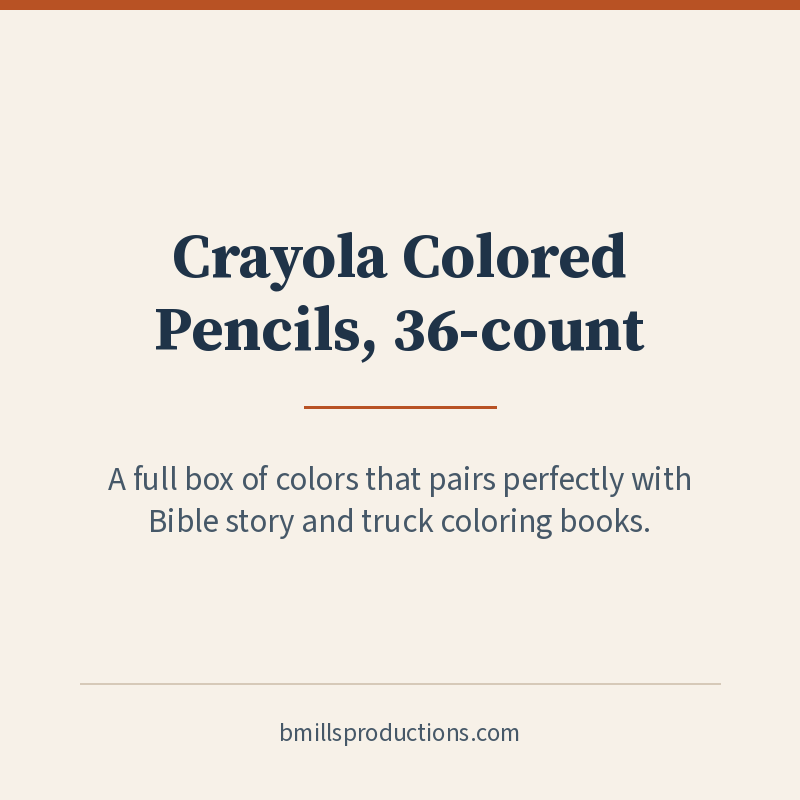
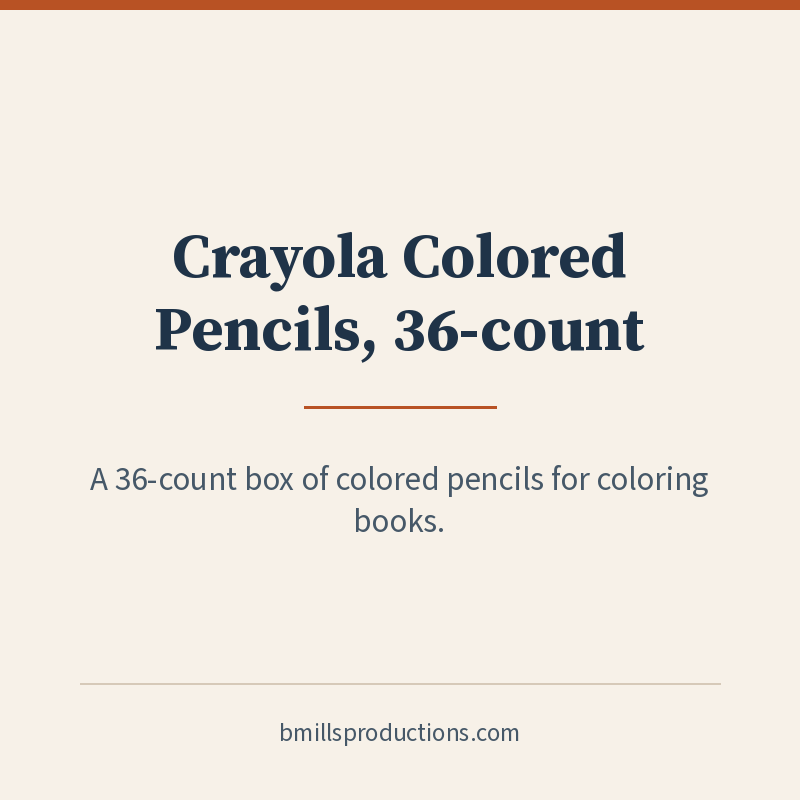
Rename Favorite Finds to Helpful Finds and add paid-link labels.

Changed region(s): [[0.125, 0.5625, 0.9062, 0.6875]]

diff --git a/index.html b/index.html
@@ -23,7 +23,7 @@
         <a href="#printables">Printables</a>
         <a href="#digital-art">Digital Art &amp; Papers</a>
         <a href="#business-finance">Business &amp; Finance</a>
-        <a href="/links/">Favorite Finds</a>
+        <a href="/links/">Helpful Finds</a>
         <a href="#about">About</a>
         <!-- PHYSICAL_PRODUCTS_CHIP
              Uncomment this chip when there are physical products to show:
@@ -51,7 +51,7 @@
             <a class="chip" href="#printables">Printables</a>
             <a class="chip" href="#digital-art">Digital Art &amp; Papers</a>
             <a class="chip" href="#business-finance">Business &amp; Finance</a>
-            <a class="chip" href="/links/">Amazon Favorite Finds</a>
+            <a class="chip" href="/links/">Helpful Amazon Finds</a>
             <!-- PHYSICAL_PRODUCTS_CHIP
                  Hidden for now — there are no physical products yet.
                  Uncomment to show this category chip:
@@ -529,7 +529,7 @@
         <div class="section-head">
           <div>
             <p class="eyebrow">From Amazon</p>
-            <h2>Favorite Finds</h2>
+            <h2>Helpful Finds</h2>
             <p class="lede">A short list of useful kitchen, car, office, and craft picks to go with the planners and coloring books.</p>
           </div>
         </div>
@@ -544,7 +544,10 @@
               <p class="card-meta">Amazon · Office &amp; Planning</p>
               <h3>SKYDUE Budget Binder with Zipper Cash Envelopes</h3>
               <p class="card-blurb">A small binder with zipper cash envelopes to keep spending categories right next to your printed budget pages.</p>
-              <a class="btn btn-primary btn-card" href="https://www.amazon.com/dp/B0967RNWX3?tag=billmills-20" target="_blank" rel="sponsored noopener">View on Amazon</a>
+              <div class="buy-row">
+                <a class="btn btn-primary btn-card" href="https://www.amazon.com/dp/B0967RNWX3?tag=billmills-20" target="_blank" rel="sponsored noopener">View on Amazon</a>
+                <span class="paid-link">Paid link: I earn a commission</span>
+              </div>
             </div>
           </article>
           <article class="card">
@@ -555,29 +558,38 @@
               <p class="card-meta">Amazon · Office &amp; Planning</p>
               <h3>Hammermill Copy Plus Printer Paper, 8.5x11, 1 ream</h3>
               <p class="card-blurb">Everyday letter-size paper for printing budget pages and kids' activity sheets at home.</p>
-              <a class="btn btn-primary btn-card" href="https://www.amazon.com/dp/B005NL739M?tag=billmills-20" target="_blank" rel="sponsored noopener">View on Amazon</a>
+              <div class="buy-row">
+                <a class="btn btn-primary btn-card" href="https://www.amazon.com/dp/B005NL739M?tag=billmills-20" target="_blank" rel="sponsored noopener">View on Amazon</a>
+                <span class="paid-link">Paid link: I earn a commission</span>
+              </div>
             </div>
           </article>
           <article class="card">
             <div class="card-media finds-media">
-              <img src="images/finds-command-hooks.png" width="800" height="800" alt="Text graphic for Command Medium Designer Hooks, 2-pack, with the line: Damage-free wall hooks for keys and hats in the entryway, closet or kitchen.">
+              <img src="images/finds-command-hooks.png" width="800" height="800" alt="Text graphic for Command Medium Designer Hooks, 2-pack, with the line: Damage-free wall hooks for hats, bags, and accessories.">
             </div>
             <div class="card-body">
               <p class="card-meta">Amazon · Home Organization</p>
               <h3>Command Medium Designer Hooks, 2-pack</h3>
-              <p class="card-blurb">Damage-free wall hooks for keys and hats in the entryway, closet or kitchen.</p>
-              <a class="btn btn-primary btn-card" href="https://www.amazon.com/dp/B0000CFLYU?tag=billmills-20" target="_blank" rel="sponsored noopener">View on Amazon</a>
+              <p class="card-blurb">Damage-free wall hooks for hats, bags, and accessories.</p>
+              <div class="buy-row">
+                <a class="btn btn-primary btn-card" href="https://www.amazon.com/dp/B0000CFLYU?tag=billmills-20" target="_blank" rel="sponsored noopener">View on Amazon</a>
+                <span class="paid-link">Paid link: I earn a commission</span>
+              </div>
             </div>
           </article>
           <article class="card">
             <div class="card-media finds-media">
-              <img src="images/finds-colored-pencils.png" width="800" height="800" alt="Text graphic for Crayola Colored Pencils, 36-count, with the line: A full box of colors that pairs perfectly with Bible story and truck coloring books.">
+              <img src="images/finds-colored-pencils.png" width="800" height="800" alt="Text graphic for Crayola Colored Pencils, 36-count, with the line: A 36-count box of colored pencils for coloring books.">
             </div>
             <div class="card-body">
               <p class="card-meta">Amazon · Kids’ Crafts</p>
               <h3>Crayola Colored Pencils, 36-count</h3>
-              <p class="card-blurb">A full box of colors that pairs perfectly with Bible story and truck coloring books.</p>
-              <a class="btn btn-primary btn-card" href="https://www.amazon.com/dp/B007FI5RF8?tag=billmills-20" target="_blank" rel="sponsored noopener">View on Amazon</a>
+              <p class="card-blurb">A 36-count box of colored pencils for coloring books.</p>
+              <div class="buy-row">
+                <a class="btn btn-primary btn-card" href="https://www.amazon.com/dp/B007FI5RF8?tag=billmills-20" target="_blank" rel="sponsored noopener">View on Amazon</a>
+                <span class="paid-link">Paid link: I earn a commission</span>
+              </div>
             </div>
           </article>
           <article class="card">
@@ -588,7 +600,10 @@
               <p class="card-meta">Amazon · Kitchen</p>
               <h3>KitchenAid All-Purpose Kitchen Shears</h3>
               <p class="card-blurb">Handy shears with a protective sheath for snipping herbs and opening packages.</p>
-              <a class="btn btn-primary btn-card" href="https://www.amazon.com/dp/B07PZF3QS3?tag=billmills-20" target="_blank" rel="sponsored noopener">View on Amazon</a>
+              <div class="buy-row">
+                <a class="btn btn-primary btn-card" href="https://www.amazon.com/dp/B07PZF3QS3?tag=billmills-20" target="_blank" rel="sponsored noopener">View on Amazon</a>
+                <span class="paid-link">Paid link: I earn a commission</span>
+              </div>
             </div>
           </article>
           <article class="card">
@@ -599,11 +614,14 @@
               <p class="card-meta">Amazon · Automotive</p>
               <h3>AstroAI Digital Tire Pressure Gauge</h3>
               <p class="card-blurb">A small digital gauge for quick tire checks that fits in the glove box.</p>
-              <a class="btn btn-primary btn-card" href="https://www.amazon.com/dp/B01J8DLGU2?tag=billmills-20" target="_blank" rel="sponsored noopener">View on Amazon</a>
+              <div class="buy-row">
+                <a class="btn btn-primary btn-card" href="https://www.amazon.com/dp/B01J8DLGU2?tag=billmills-20" target="_blank" rel="sponsored noopener">View on Amazon</a>
+                <span class="paid-link">Paid link: I earn a commission</span>
+              </div>
             </div>
           </article>
         </div>
-        <a class="btn btn-primary" href="/links/" style="margin-top:1.6rem;">See all my favorite finds</a>
+        <a class="btn btn-primary" href="/links/" style="margin-top:1.6rem;">See all helpful finds</a>
       </div>
     </section>
 
@@ -657,7 +675,7 @@
       </div>
       <div class="footer-links">
         <a href="https://www.etsy.com/shop/BMillsProductions" target="_blank" rel="noopener noreferrer">BMillsProductions on Etsy</a>
-        <a href="/links/">Favorite Finds</a>
+        <a href="/links/">Helpful Finds</a>
         <a href="#about">About</a>
         <a href="#follow">Follow along</a>
         <a href="#books">Books</a>

diff --git a/links/index.html b/links/index.html
@@ -4,7 +4,7 @@
   <meta charset="utf-8">
   <meta name="viewport" content="width=device-width, initial-scale=1">
   <meta name="color-scheme" content="dark">
-  <title>Bill’s Favorite Finds — BMillsProductions</title>
+  <title>Bill’s Helpful Finds — BMillsProductions</title>
   <meta name="description" content="Handy Amazon picks from Bill Mills, numbered to match his social posts. As an Amazon Associate I earn from qualifying purchases.">
   <link rel="stylesheet" href="../styles.css">
   <link rel="stylesheet" href="links.css">
@@ -27,7 +27,7 @@
     <section class="links-hero">
       <div class="wrap">
         <p class="eyebrow">From Amazon</p>
-        <h1>Bill’s Favorite Finds</h1>
+        <h1>Bill’s Helpful Finds</h1>
         <p class="lede">A few helpful finds I've picked out — budget tools, kitchen and car basics, kids’ books and toys, and supplies for the coloring books. New picks are numbered so you can match them to a post.</p>
         <p class="disclosure disclosure-top">As an Amazon Associate I earn from qualifying purchases.</p>
         <p class="links-note">If a post says Find #12, tap 12 below to jump to it.</p>
@@ -66,7 +66,7 @@
       </div>
     </section>
 
-    <section class="links-list" aria-label="Favorite Finds">
+    <section class="links-list" aria-label="Helpful Finds">
       <div class="wrap">
         <div class="grid grid-links" id="finds-grid">
           <article class="card link-card" id="find-1">

diff --git a/styles.css b/styles.css
@@ -702,7 +702,7 @@ h3 {
 .footer-contact a:hover { color: var(--accent); }
 
 
-/* Favorite Finds */
+/* Helpful Finds */
 .disclosure {
   font-size: 0.92rem;
   color: var(--ink-soft);
@@ -735,6 +735,26 @@ h3 {
   color: var(--ink-soft);
   margin: 0 0 0.7rem;
   line-height: 1.45;
+}
+
+
+.buy-row {
+  display: flex;
+  flex-wrap: wrap;
+  align-items: center;
+  gap: 0.45rem 0.75rem;
+  margin-top: auto;
+}
+.buy-row .btn-card {
+  width: auto;
+  flex: 1 1 12rem;
+  margin-top: 0;
+}
+.paid-link {
+  flex: 1 1 7.5rem;
+  font-size: 0.82rem;
+  line-height: 1.35;
+  color: var(--ink-soft);
 }
 
 .btn-label-short { display: none; }
